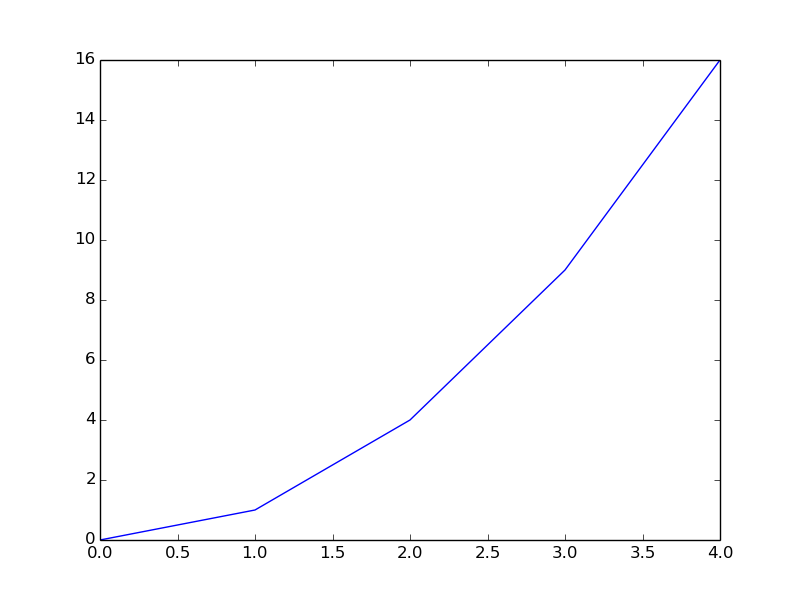
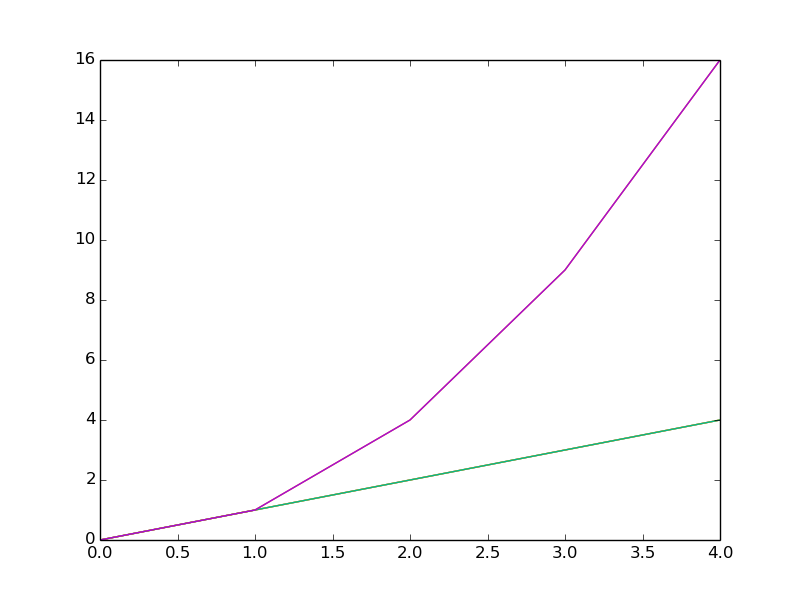
un sacco di news

diff --git a/mplgui.py b/mplgui.py
@@ -1,12 +1,19 @@
-from gi.repository import Gtk
+from gi.repository import Gtk, Gdk
 
 import numpy as np
 import matplotlib as mpl
 from matplotlib import pyplot as plt
 
+# Colors
+COLORS = [tuple(map(lambda x: x/255.0, c)) for c in ((39,99,236), (166,16,16), (20,118,4), (255,210,0),
+    (163,10,219), (5,181,138), (130,70,0), (255,108,0), (255,0,72))]
+GDK_COLORS = [Gdk.RGBA(*c) for c in COLORS]
+
 # Plot types
 SERIES = 1
 ALL_VS_FIRST = 2
+
+PLOT_PANELS = {SERIES: "series", ALL_VS_FIRST: "all_vs_first"}
 
 class MPL:
     def __init__(self, builder, variables):
@@ -38,6 +45,8 @@ class MPL:
 
         self.plot_num = 0
         self.plots = {}
+        self.pages = {}
+        self.current_plot = None
 
         # Toolbar
         self.toolbar = builder.get_object("toolbar")
@@ -46,11 +55,28 @@ class MPL:
         new_plot.connect("clicked", self.create_new_plot)
         self.toolbar.insert(new_plot, 0)
 
-    def create_new_plot(self, *args):
+    def change_panel(self, new_panel, plot):
+        # panel for option
+        builder = Gtk.Builder()
+        builder.add_from_file("{}.glade".format(new_panel)) 
+        builder.connect_signals(self)
+
+        plot["data_box"] = builder.get_object("data_box")
+
+        panel = builder.get_object("panel")
+
+        # Add data fields
+        for n, k in enumerate(self.variables.keys()):
+            self.add_var(plot, k, n)
+
+        return panel
+
+    def create_new_plot(self, button, plot_type=SERIES):
         # NON-GUI
         self.plot_num += 1
         self.plots[self.plot_num] = {
-            "type": 1
+            "type": 1,
+            "variables": []
         }
         plot = self.plots[self.plot_num]
 
@@ -60,6 +86,7 @@ class MPL:
 
         # Left panel
         box = Gtk.VBox()
+        plot["panel_box"] = box
         box.set_homogeneous(False)
         box.set_margin_left(4)
         box.set_margin_right(4)
@@ -67,45 +94,35 @@ class MPL:
         box.set_margin_bottom(4)
         box.set_size_request(240, 100)
 
+        # Plot type
+        box_plot_type = Gtk.VBox()
+        box_plot_type.set_homogeneous(False)
+
         label_type = Gtk.Label("Plot type")
-        box.pack_start(label_type, False, False, 0)
+        box_plot_type.pack_start(label_type, False, False, 0)
 
         button_series = Gtk.RadioButton.new_with_label_from_widget(None, "Series")
         button_series.connect("toggled", self.on_plot_type_changed, plot, SERIES)
         button_series.set_visible(True)
-        box.pack_start(button_series, False, False, 0)
+        box_plot_type.pack_start(button_series, False, False, 0)
         
         button_all_vs_first = Gtk.RadioButton.new_with_label_from_widget(button_series, "All vs first")
         button_all_vs_first.connect("toggled", self.on_plot_type_changed, plot, ALL_VS_FIRST)
         button_all_vs_first.set_visible(True)
-        box.pack_start(button_all_vs_first, False, False, 0)
+        box_plot_type.pack_start(button_all_vs_first, False, False, 0)
 
-        # panel for option
-        builder = Gtk.Builder()
-        builder.add_from_file("series.glade") 
-        builder.connect_signals(self)
+        box_plot_type.set_visible(True)
+        box.pack_start(box_plot_type, False, False, 0)        
 
-        plot["data_box"] = builder.get_object("data_box")
-
-        panel = builder.get_object("panel")
-        box.pack_start(panel, True, True, 4)
+        # Panel
+        panel = self.change_panel(PLOT_PANELS[plot_type], plot)
+        plot["panel"] = panel
+        box.pack_start(panel, True, True, 4)        
 
         plot_button = Gtk.Button("Plot")
         plot_button.connect("clicked", self.plot, plot)
         plot_button.set_visible(True)
         box.pack_start(plot_button, False, False, 0)
-
-        # Add data fields
-        for k, v in self.variables.items():
-            builder = Gtk.Builder()
-            builder.add_from_file("data.glade") 
-            builder.connect_signals(self)
-
-            field = builder.get_object("data_field")
-            plot["data_box"].pack_start(field, False, False, 8)
-
-            var_label = builder.get_object("label")
-            var_label.set_text(k)
 
         paned.add1(box)
 
@@ -120,7 +137,12 @@ class MPL:
         box.set_visible(True)
         paned.set_visible(True)
 
-        self.notebook.append_page(paned, label)
+        plot["paned"] = paned
+        plot["label"] = label
+
+        i = self.notebook.append_page(paned, label)
+        self.pages[paned] = self.plot_num
+        self.notebook.set_current_page(i)
 
     def menu_file_open(self, *args):
         dialog = Gtk.FileChooserDialog("Open file", None,
@@ -139,11 +161,73 @@ class MPL:
         
         dialog.destroy()
 
+    def on_var_deleted(self, button, field, plot, n):
+        field.destroy()
+        del plot["variables"][n]
+
+    def on_var_add(self, button):
+        plot = self.plots[self.current_plot]
+        self.add_var(plot, list(self.variables.keys())[0])
+
+    def add_var(self, plot, key, active=0):
+        n = len(plot["variables"])
+
+        color = COLORS[n % len(COLORS)]
+        gdk_color = GDK_COLORS[n % len(COLORS)]
+
+        var = {"key": key, "color": color, "gdk_color": gdk_color}
+        
+        builder = Gtk.Builder()
+        builder.add_from_file("data.glade") 
+        builder.connect_signals(self)
+
+        field = builder.get_object("data_field")
+        plot["data_box"].pack_start(field, False, False, 8)
+
+        var_label = builder.get_object("label")
+        var_label.set_text("Series {}".format(n+1))
+
+        color_button = builder.get_object("color_button")
+        color_button.set_rgba(gdk_color)
+
+        color_button = builder.get_object("delete_button")
+        color_button.connect("clicked", self.on_var_deleted, field, plot, n)
+
+        combo = builder.get_object("combo")
+        combo.set_entry_text_column(0)
+        combo.connect("changed", self.on_var_combo_changed, var)
+
+        for key in self.variables.keys():
+            combo.append_text(key)
+
+        combo.set_active(active)
+
+        plot["variables"].append(var)
+
+    def on_var_combo_changed(self, combo, var):
+        string = combo.get_active_text()
+        var["key"] = string
+
     def on_column_clicked(self, column, *args):
         print("ciao")
 
     def on_plot_type_changed(self, button, plot, t):
-        plot["type"] = t     
+        plot["panel"].destroy()
+
+        panel = self.change_panel(PLOT_PANELS[t], plot)
+        plot["panel"] = panel
+
+        plot["panel_box"].pack_start(panel, True, True, 4)        
+        plot["panel_box"].reorder_child(panel, 1)
+
+        plot["type"] = t
+
+    def on_switch_plot(self, notebook, page, page_num):
+        try:
+            self.current_plot = self.pages[page]
+        except:
+            # Sometimes one selects the "Data" tab!!!
+            pass
 
     def plot(self, button, plot=None):
         f = plt.figure()
@@ -151,8 +235,12 @@ class MPL:
 
         t = plot["type"]   
         if t == SERIES: 
-            for v in self.variables.values():
-                ax.errorbar(x=np.arange(len(v)), y=v)
+            for v in plot["variables"]:
+                values = self.variables[v["key"]]
+                color = v["color"]
+
+                ax.errorbar(x=np.arange(len(values)), y=values,
+                    c=color)
         elif t == ALL_VS_FIRST:
             first = list(self.variables.keys())[0]
             for k, v in self.variables.items():
